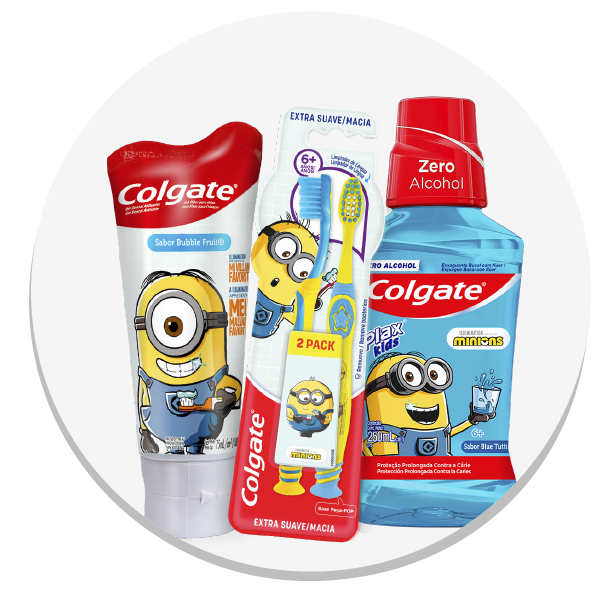
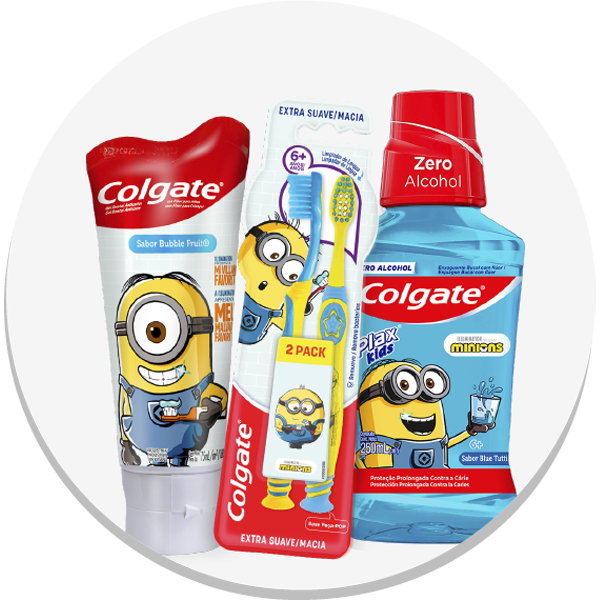
Arreglos en el Menu de Producto Ideal

diff --git a/src/css/ButtonMenu.css b/src/css/ButtonMenu.css
@@ -1,30 +1,27 @@
 .ButtonMenu {
-    width: 18.75em;
+    width: 280px;
     height: 400px;
-    position: relative;
-    top: 0;
-    left: -8.5em;
     cursor: pointer;
 }
 
 .ButtonMenu .fondoListon {
-    width: 17.125em;
+    width: 18.75em;
     position: absolute;
-    top: 12.313em;
-    left: 10.188em;
+    left: 0px;
+    top: 12.8em;
 }
 
 .ButtonMenu .btnListon {
-    width: 18.75em;
-    position: absolute;
+    width: 19em;
+    margin-left: -0.2em;
     top: 0px;
-    /* left: 150px; */
 }
 
 .ButtonMenu .nombreListon {
     width: 18.75em;
     position: absolute;
-    top: 14.375em;
+    left: 0px;
+    top: 15em;
 }
 
 .ButtonMenu.self {
